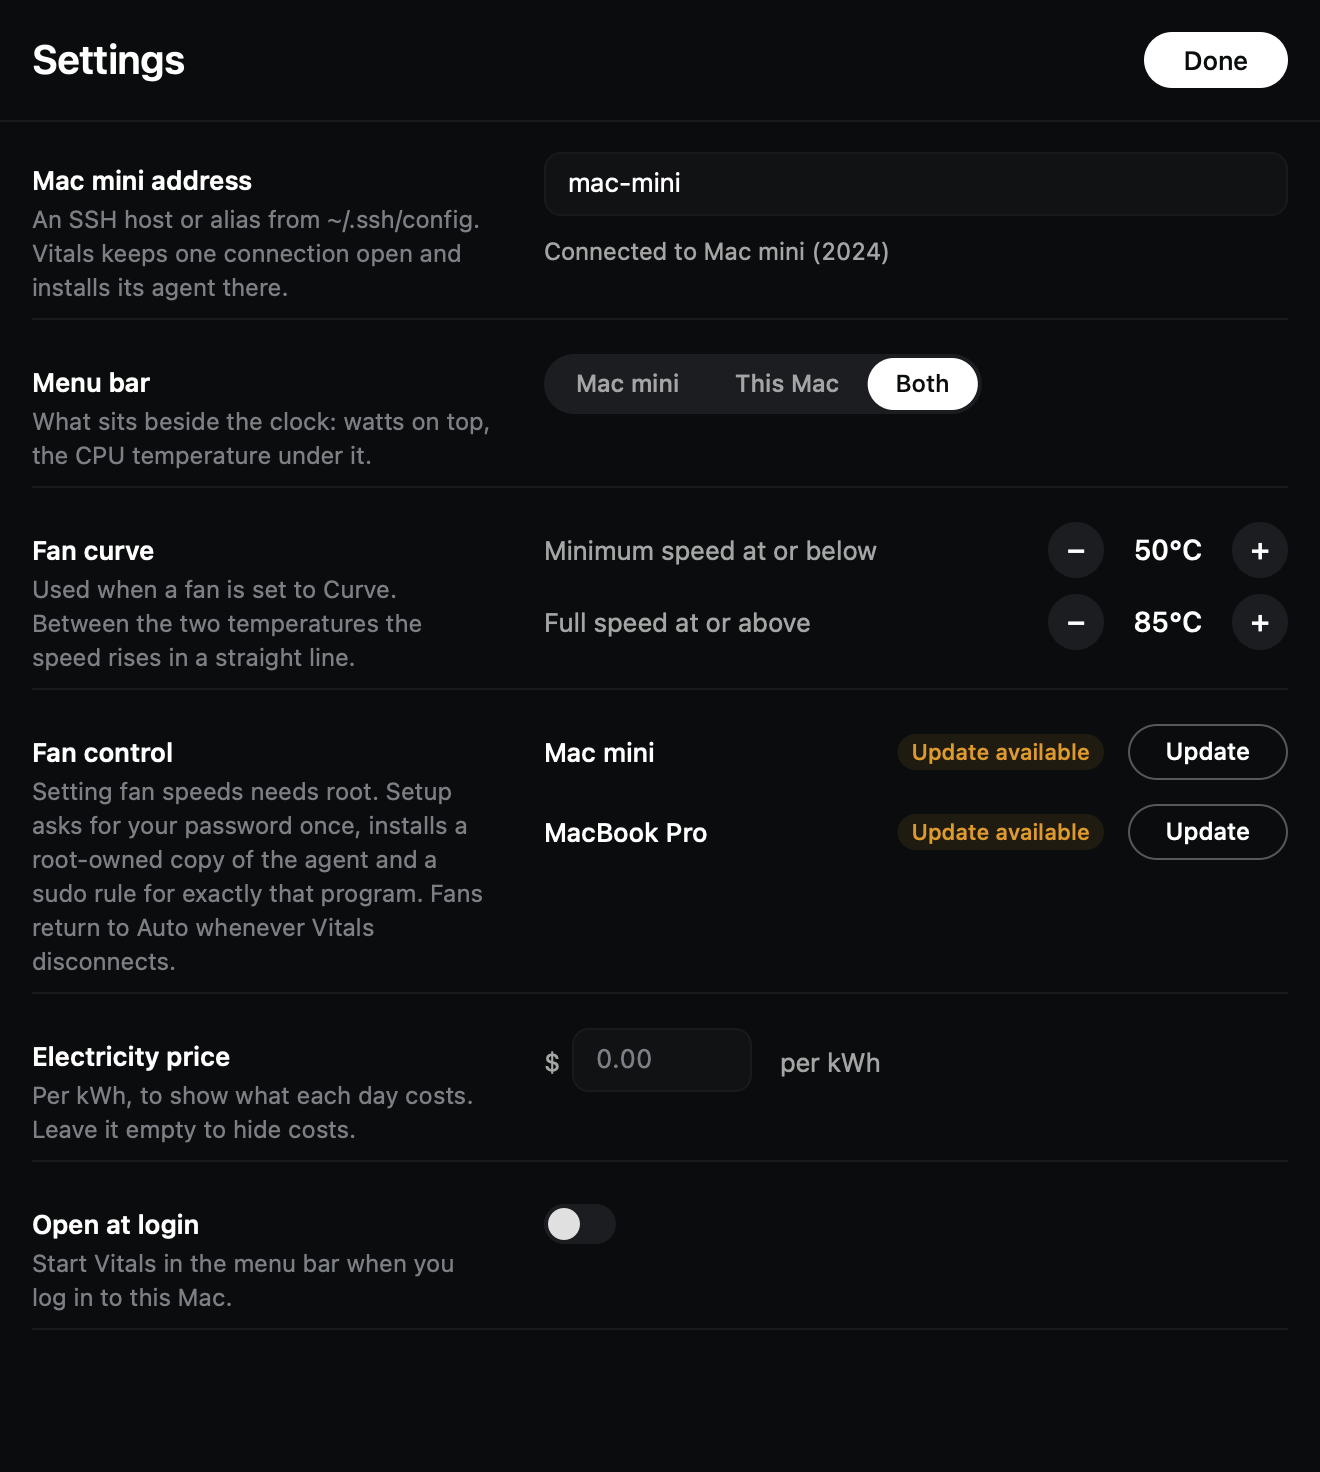
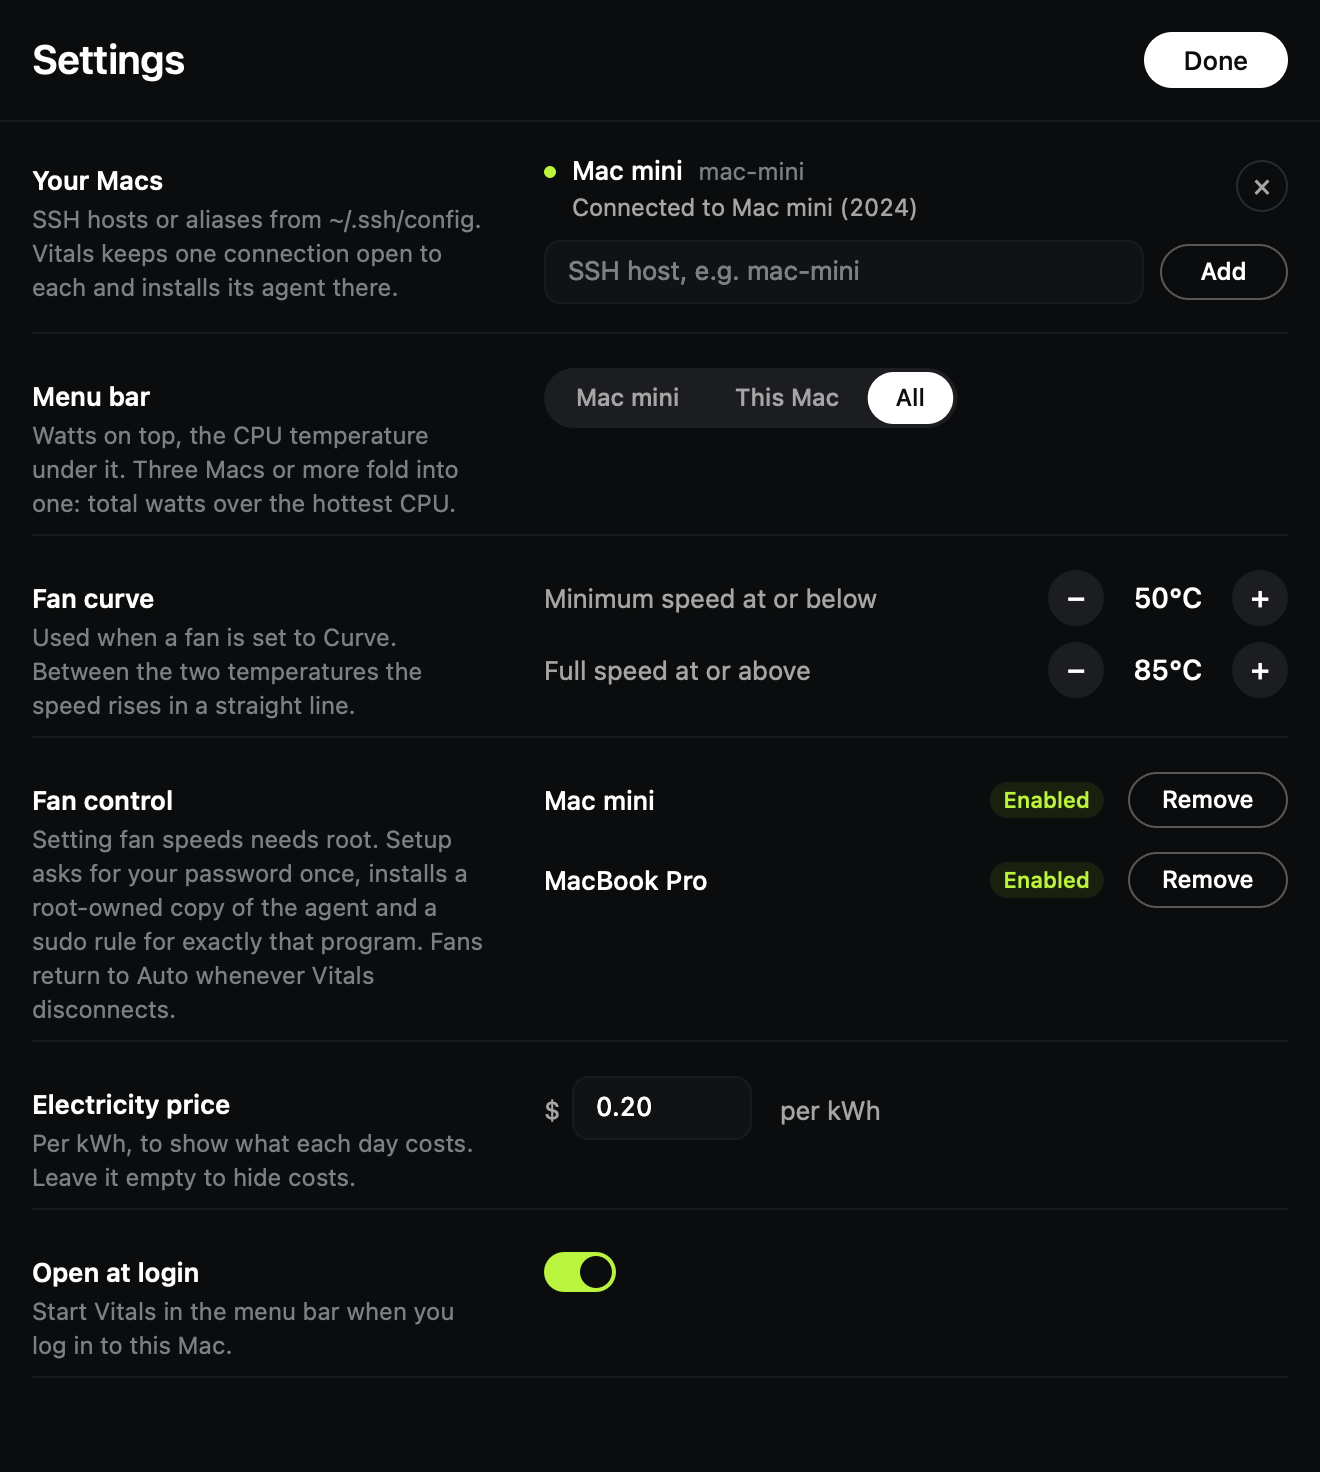
README for the fleet: setup for many Macs, the new Settings. Version 1.0.13

diff --git a/Sources/Core/Model.swift b/Sources/Core/Model.swift
@@ -2,7 +2,7 @@ import Foundation
 
 // The wire format between the agent (on each Mac) and the menu bar app: one JSON object per line.
 
-let vitalsVersion = "1.0.12"
+let vitalsVersion = "1.0.13"
 
 struct Fan: Codable, Equatable {
     var rpm: Double

diff --git a/README.md b/README.md
@@ -106,9 +106,9 @@ notarized, so macOS will block the first launch; allow it once in System Setting
 xattr -dr com.apple.quarantine /Applications/Vitals.app
 ```
 
-Then open Vitals, click the readings in the menu bar → **Settings**, and enter your remote Mac's SSH
-host (default `mac-mini`). Vitals copies its agent to `~/.vitals/` on that Mac and starts the logger
-there by itself.
+Then open Vitals, click the readings in the menu bar → **Settings**, and add your other Macs by SSH
+host (`mac-mini`, or one of your Tailscale Macs, which Settings suggests). Add as many as you like.
+Vitals copies its agent to `~/.vitals/` on each one and starts its logger there by itself.
 
 ![Settings](docs/settings.png)
 
